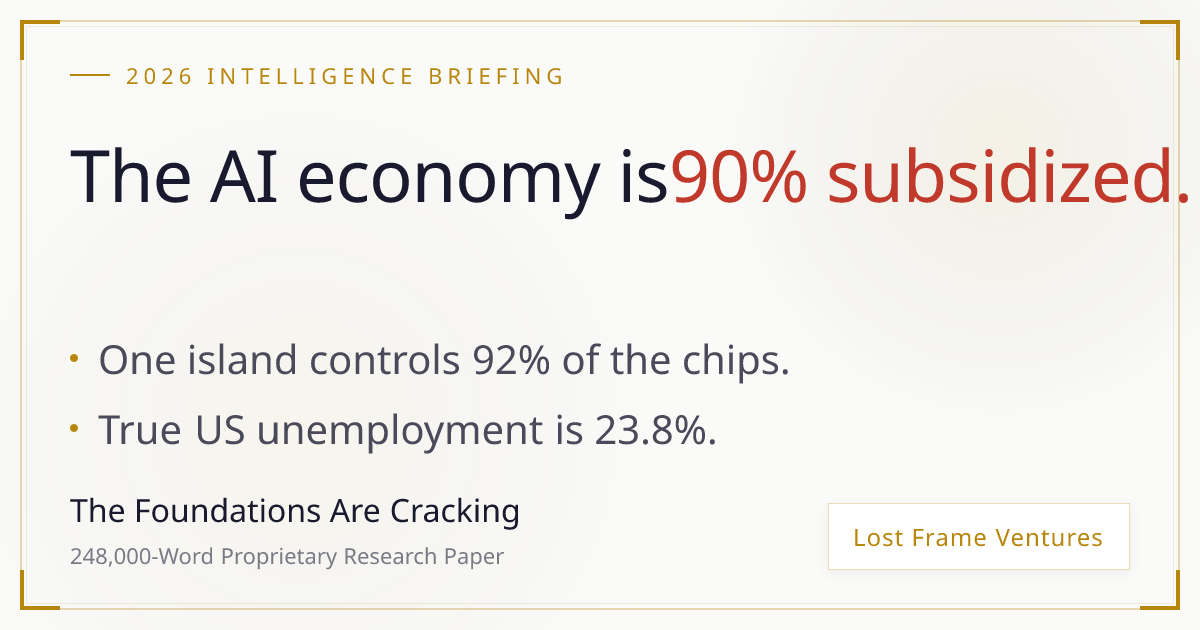
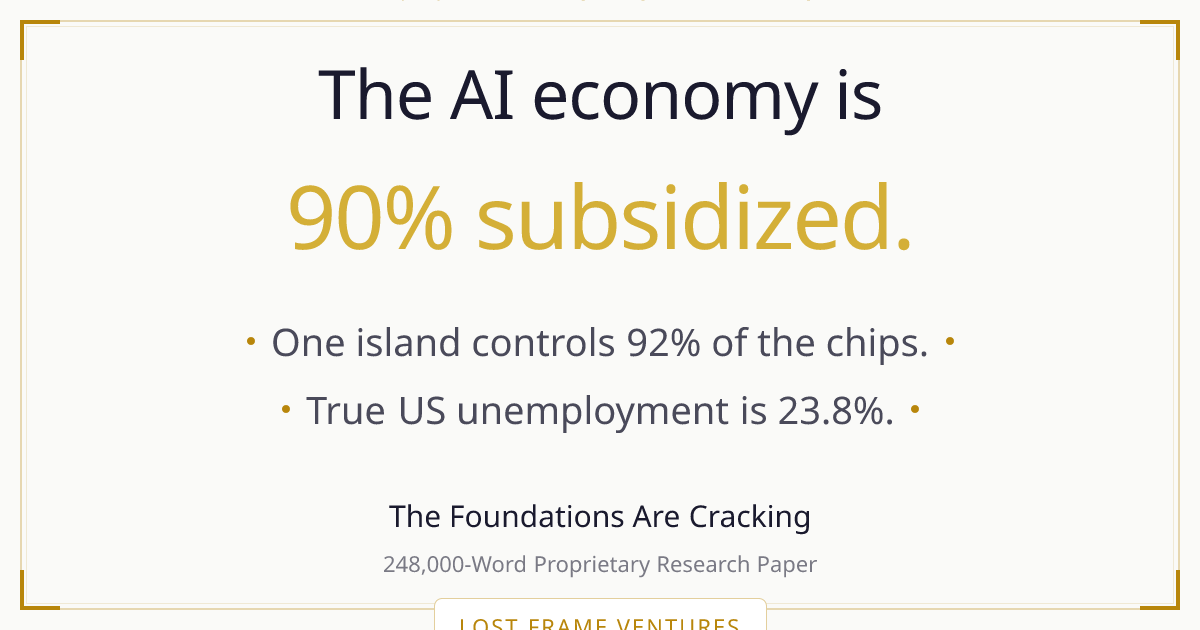
chore: deploy website and sync report updates

diff --git a/report/src/app/opengraph-image.tsx b/report/src/app/opengraph-image.tsx
@@ -15,72 +15,77 @@ export default async function Image() {
           width: "100%",
           height: "100%",
           backgroundColor: "#fafaf8",
-          padding: "60px 70px",
+          padding: "40px",
           color: "#1a1a2e",
           fontFamily: "sans-serif",
-          justifyContent: "space-between",
+          justifyContent: "center",
+          alignItems: "center",
           position: "relative",
-          overflow: "hidden",
         }}
       >
         {/* Inner Gold Frame */}
-        <div style={{ position: "absolute", top: 20, left: 20, right: 20, bottom: 20, border: "2px solid rgba(184,134,11,0.3)" }} />
-        <div style={{ position: "absolute", top: 26, left: 26, right: 26, bottom: 26, border: "1px solid rgba(184,134,11,0.15)" }} />
+        <div style={{ display: "flex", position: "absolute", top: 20, left: 20, right: 20, bottom: 20, border: "2px solid rgba(184,134,11,0.3)" }} />
+        <div style={{ display: "flex", position: "absolute", top: 26, left: 26, right: 26, bottom: 26, border: "1px solid rgba(184,134,11,0.15)" }} />
         
         {/* Corner Accents */}
-        <div style={{ position: "absolute", top: 20, left: 20, width: 40, height: 40, borderTop: "4px solid #b8860b", borderLeft: "4px solid #b8860b" }} />
-        <div style={{ position: "absolute", top: 20, right: 20, width: 40, height: 40, borderTop: "4px solid #b8860b", borderRight: "4px solid #b8860b" }} />
-        <div style={{ position: "absolute", bottom: 20, left: 20, width: 40, height: 40, borderBottom: "4px solid #b8860b", borderLeft: "4px solid #b8860b" }} />
-        <div style={{ position: "absolute", bottom: 20, right: 20, width: 40, height: 40, borderBottom: "4px solid #b8860b", borderRight: "4px solid #b8860b" }} />
+        <div style={{ display: "flex", position: "absolute", top: 20, left: 20, width: 40, height: 40, borderTop: "4px solid #b8860b", borderLeft: "4px solid #b8860b" }} />
+        <div style={{ display: "flex", position: "absolute", top: 20, right: 20, width: 40, height: 40, borderTop: "4px solid #b8860b", borderRight: "4px solid #b8860b" }} />
+        <div style={{ display: "flex", position: "absolute", bottom: 20, left: 20, width: 40, height: 40, borderBottom: "4px solid #b8860b", borderLeft: "4px solid #b8860b" }} />
+        <div style={{ display: "flex", position: "absolute", bottom: 20, right: 20, width: 40, height: 40, borderBottom: "4px solid #b8860b", borderRight: "4px solid #b8860b" }} />
 
-        {/* Subtle grid pattern */}
-        <div style={{ position: "absolute", top: 0, left: 0, right: 0, bottom: 0, opacity: 0.15, backgroundImage: "radial-gradient(circle at 2px 2px, #b8860b 1px, transparent 0)", backgroundSize: "32px 32px" }} />
+        {/* Main Content Safe Zone - Middle 600px */}
+        <div style={{ display: "flex", flexDirection: "column", alignItems: "center", justifyContent: "center", zIndex: 10, textAlign: "center", width: "800px" }}>
+          
+          {/* Top Eyebrow */}
+          <div style={{ display: "flex", alignItems: "center", justifyContent: "center", marginBottom: "40px" }}>
+            <div style={{ display: "flex", width: "40px", height: "2px", backgroundColor: "#b8860b", marginRight: "16px" }} />
+            <div style={{ display: "flex", fontSize: 22, color: "#b8860b", letterSpacing: "5px", fontWeight: 700, textTransform: "uppercase" }}>
+              2026 INTELLIGENCE BRIEFING
+            </div>
+            <div style={{ display: "flex", width: "40px", height: "2px", backgroundColor: "#b8860b", marginLeft: "16px" }} />
+          </div>
 
-        {/* Background Orbs */}
-        <div style={{ position: "absolute", top: -150, right: -100, width: 600, height: 600, background: "radial-gradient(circle, rgba(184,134,11,0.08) 0%, transparent 70%)", borderRadius: "50%" }} />
-        <div style={{ position: "absolute", bottom: -200, left: -100, width: 800, height: 800, background: "radial-gradient(circle, rgba(184,134,11,0.05) 0%, transparent 70%)", borderRadius: "50%" }} />
-
-        {/* Top Eyebrow */}
-        <div style={{ display: "flex", alignItems: "center", gap: "16px", zIndex: 10 }}>
-          <div style={{ width: "40px", height: "2px", backgroundColor: "#b8860b" }} />
-          <span style={{ fontSize: 22, color: "#b8860b", letterSpacing: "5px", fontWeight: 600, textTransform: "uppercase" }}>
-            2026 INTELLIGENCE BRIEFING
-          </span>
-        </div>
-
-        {/* Main Content */}
-        <div style={{ display: "flex", flexDirection: "column", gap: "24px", zIndex: 10, marginTop: "10px" }}>
-          <div style={{ display: "flex", flexDirection: "column", gap: "12px" }}>
-            <h1 style={{ fontSize: 72, fontWeight: 800, lineHeight: 1.1, margin: 0, color: "#1a1a2e", letterSpacing: "-1px" }}>
-              The AI economy is <span style={{ color: "#c0392b" }}>90% subsidized.</span>
-            </h1>
+          <div style={{ display: "flex", flexDirection: "column", alignItems: "center", justifyContent: "center", marginBottom: "40px" }}>
+            <div style={{ display: "flex", fontSize: 68, fontWeight: 800, color: "#1a1a2e", letterSpacing: "-1px", marginBottom: "16px" }}>
+              The AI economy is
+            </div>
+            <div style={{ display: "flex", color: "#d4af37", fontSize: 88, fontWeight: 900, letterSpacing: "-2px" }}>
+              90% subsidized.
+            </div>
           </div>
           
-          <div style={{ display: "flex", flexDirection: "column", gap: "16px", marginTop: "15px" }}>
-            <div style={{ display: "flex", alignItems: "center", gap: "20px" }}>
-              <div style={{ width: "8px", height: "8px", borderRadius: "50%", backgroundColor: "#b8860b" }} />
-              <h2 style={{ fontSize: 40, fontWeight: 500, margin: 0, color: "#4a4a5a" }}>
+          <div style={{ display: "flex", flexDirection: "column", alignItems: "center", justifyContent: "center" }}>
+            <div style={{ display: "flex", alignItems: "center", justifyContent: "center", marginBottom: "16px" }}>
+              <div style={{ display: "flex", width: "8px", height: "8px", borderRadius: "50%", backgroundColor: "#b8860b", marginRight: "16px" }} />
+              <div style={{ display: "flex", fontSize: 38, fontWeight: 500, color: "#4a4a5a" }}>
                 One island controls 92% of the chips.
-              </h2>
+              </div>
+              <div style={{ display: "flex", width: "8px", height: "8px", borderRadius: "50%", backgroundColor: "#b8860b", marginLeft: "16px" }} />
             </div>
-            <div style={{ display: "flex", alignItems: "center", gap: "20px" }}>
-              <div style={{ width: "8px", height: "8px", borderRadius: "50%", backgroundColor: "#b8860b" }} />
-              <h2 style={{ fontSize: 40, fontWeight: 500, margin: 0, color: "#4a4a5a" }}>
+            <div style={{ display: "flex", alignItems: "center", justifyContent: "center" }}>
+              <div style={{ display: "flex", width: "8px", height: "8px", borderRadius: "50%", backgroundColor: "#b8860b", marginRight: "16px" }} />
+              <div style={{ display: "flex", fontSize: 38, fontWeight: 500, color: "#4a4a5a" }}>
                 True US unemployment is 23.8%.
-              </h2>
+              </div>
+              <div style={{ display: "flex", width: "8px", height: "8px", borderRadius: "50%", backgroundColor: "#b8860b", marginLeft: "16px" }} />
             </div>
           </div>
-        </div>
 
-        {/* Bottom Bar */}
-        <div style={{ display: "flex", justifyContent: "space-between", alignItems: "flex-end", zIndex: 10 }}>
-          <div style={{ display: "flex", flexDirection: "column", gap: "8px" }}>
-            <span style={{ fontSize: 32, fontWeight: 700, color: "#1a1a2e" }}>The Foundations Are Cracking</span>
-            <span style={{ fontSize: 22, color: "#7a7a85" }}>248,000-Word Proprietary Research Paper</span>
+          {/* Bottom Branding */}
+          <div style={{ display: "flex", flexDirection: "column", alignItems: "center", justifyContent: "center", marginTop: "60px" }}>
+            <div style={{ display: "flex", fontSize: 30, fontWeight: 700, color: "#1a1a2e", marginBottom: "12px" }}>
+              The Foundations Are Cracking
+            </div>
+            <div style={{ display: "flex", fontSize: 22, color: "#7a7a85", marginBottom: "20px" }}>
+              248,000-Word Proprietary Research Paper
+            </div>
+            <div style={{ display: "flex", padding: "12px 24px", border: "1px solid rgba(184,134,11,0.4)", backgroundColor: "#fff", borderRadius: "8px" }}>
+              <div style={{ display: "flex", fontSize: 22, color: "#b8860b", fontWeight: 700, letterSpacing: "2px", textTransform: "uppercase" }}>
+                LOST FRAME VENTURES
+              </div>
+            </div>
           </div>
-          <div style={{ display: "flex", alignItems: "center", gap: "12px", backgroundColor: "#fff", padding: "16px 24px", border: "1px solid rgba(184,134,11,0.3)", boxShadow: "0 4px 12px rgba(0,0,0,0.05)" }}>
-            <span style={{ fontSize: 24, color: "#b8860b", fontWeight: 700, letterSpacing: "1px" }}>Lost Frame Ventures</span>
-          </div>
+
         </div>
       </div>
     ),

diff --git a/src/app/research/opengraph-image.tsx b/src/app/research/opengraph-image.tsx
@@ -15,72 +15,77 @@ export default async function Image() {
           width: "100%",
           height: "100%",
           backgroundColor: "#fafaf8",
-          padding: "60px 70px",
+          padding: "40px",
           color: "#1a1a2e",
           fontFamily: "sans-serif",
-          justifyContent: "space-between",
+          justifyContent: "center",
+          alignItems: "center",
           position: "relative",
-          overflow: "hidden",
         }}
       >
         {/* Inner Gold Frame */}
-        <div style={{ position: "absolute", top: 20, left: 20, right: 20, bottom: 20, border: "2px solid rgba(184,134,11,0.3)" }} />
-        <div style={{ position: "absolute", top: 26, left: 26, right: 26, bottom: 26, border: "1px solid rgba(184,134,11,0.15)" }} />
+        <div style={{ display: "flex", position: "absolute", top: 20, left: 20, right: 20, bottom: 20, border: "2px solid rgba(184,134,11,0.3)" }} />
+        <div style={{ display: "flex", position: "absolute", top: 26, left: 26, right: 26, bottom: 26, border: "1px solid rgba(184,134,11,0.15)" }} />
         
         {/* Corner Accents */}
-        <div style={{ position: "absolute", top: 20, left: 20, width: 40, height: 40, borderTop: "4px solid #b8860b", borderLeft: "4px solid #b8860b" }} />
-        <div style={{ position: "absolute", top: 20, right: 20, width: 40, height: 40, borderTop: "4px solid #b8860b", borderRight: "4px solid #b8860b" }} />
-        <div style={{ position: "absolute", bottom: 20, left: 20, width: 40, height: 40, borderBottom: "4px solid #b8860b", borderLeft: "4px solid #b8860b" }} />
-        <div style={{ position: "absolute", bottom: 20, right: 20, width: 40, height: 40, borderBottom: "4px solid #b8860b", borderRight: "4px solid #b8860b" }} />
+        <div style={{ display: "flex", position: "absolute", top: 20, left: 20, width: 40, height: 40, borderTop: "4px solid #b8860b", borderLeft: "4px solid #b8860b" }} />
+        <div style={{ display: "flex", position: "absolute", top: 20, right: 20, width: 40, height: 40, borderTop: "4px solid #b8860b", borderRight: "4px solid #b8860b" }} />
+        <div style={{ display: "flex", position: "absolute", bottom: 20, left: 20, width: 40, height: 40, borderBottom: "4px solid #b8860b", borderLeft: "4px solid #b8860b" }} />
+        <div style={{ display: "flex", position: "absolute", bottom: 20, right: 20, width: 40, height: 40, borderBottom: "4px solid #b8860b", borderRight: "4px solid #b8860b" }} />
 
-        {/* Subtle grid pattern */}
-        <div style={{ position: "absolute", top: 0, left: 0, right: 0, bottom: 0, opacity: 0.15, backgroundImage: "radial-gradient(circle at 2px 2px, #b8860b 1px, transparent 0)", backgroundSize: "32px 32px" }} />
+        {/* Main Content Safe Zone - Middle 600px */}
+        <div style={{ display: "flex", flexDirection: "column", alignItems: "center", justifyContent: "center", zIndex: 10, textAlign: "center", width: "800px" }}>
+          
+          {/* Top Eyebrow */}
+          <div style={{ display: "flex", alignItems: "center", justifyContent: "center", marginBottom: "40px" }}>
+            <div style={{ display: "flex", width: "40px", height: "2px", backgroundColor: "#b8860b", marginRight: "16px" }} />
+            <div style={{ display: "flex", fontSize: 22, color: "#b8860b", letterSpacing: "5px", fontWeight: 700, textTransform: "uppercase" }}>
+              2026 INTELLIGENCE BRIEFING
+            </div>
+            <div style={{ display: "flex", width: "40px", height: "2px", backgroundColor: "#b8860b", marginLeft: "16px" }} />
+          </div>
 
-        {/* Background Orbs */}
-        <div style={{ position: "absolute", top: -150, right: -100, width: 600, height: 600, background: "radial-gradient(circle, rgba(184,134,11,0.08) 0%, transparent 70%)", borderRadius: "50%" }} />
-        <div style={{ position: "absolute", bottom: -200, left: -100, width: 800, height: 800, background: "radial-gradient(circle, rgba(184,134,11,0.05) 0%, transparent 70%)", borderRadius: "50%" }} />
-
-        {/* Top Eyebrow */}
-        <div style={{ display: "flex", alignItems: "center", gap: "16px", zIndex: 10 }}>
-          <div style={{ width: "40px", height: "2px", backgroundColor: "#b8860b" }} />
-          <span style={{ fontSize: 22, color: "#b8860b", letterSpacing: "5px", fontWeight: 600, textTransform: "uppercase" }}>
-            2026 INTELLIGENCE BRIEFING
-          </span>
-        </div>
-
-        {/* Main Content */}
-        <div style={{ display: "flex", flexDirection: "column", gap: "24px", zIndex: 10, marginTop: "10px" }}>
-          <div style={{ display: "flex", flexDirection: "column", gap: "12px" }}>
-            <h1 style={{ fontSize: 72, fontWeight: 800, lineHeight: 1.1, margin: 0, color: "#1a1a2e", letterSpacing: "-1px" }}>
-              The AI economy is <span style={{ color: "#c0392b" }}>90% subsidized.</span>
-            </h1>
+          <div style={{ display: "flex", flexDirection: "column", alignItems: "center", justifyContent: "center", marginBottom: "40px" }}>
+            <div style={{ display: "flex", fontSize: 68, fontWeight: 800, color: "#1a1a2e", letterSpacing: "-1px", marginBottom: "16px" }}>
+              The AI economy is
+            </div>
+            <div style={{ display: "flex", color: "#d4af37", fontSize: 88, fontWeight: 900, letterSpacing: "-2px" }}>
+              90% subsidized.
+            </div>
           </div>
           
-          <div style={{ display: "flex", flexDirection: "column", gap: "16px", marginTop: "15px" }}>
-            <div style={{ display: "flex", alignItems: "center", gap: "20px" }}>
-              <div style={{ width: "8px", height: "8px", borderRadius: "50%", backgroundColor: "#b8860b" }} />
-              <h2 style={{ fontSize: 40, fontWeight: 500, margin: 0, color: "#4a4a5a" }}>
+          <div style={{ display: "flex", flexDirection: "column", alignItems: "center", justifyContent: "center" }}>
+            <div style={{ display: "flex", alignItems: "center", justifyContent: "center", marginBottom: "16px" }}>
+              <div style={{ display: "flex", width: "8px", height: "8px", borderRadius: "50%", backgroundColor: "#b8860b", marginRight: "16px" }} />
+              <div style={{ display: "flex", fontSize: 38, fontWeight: 500, color: "#4a4a5a" }}>
                 One island controls 92% of the chips.
-              </h2>
+              </div>
+              <div style={{ display: "flex", width: "8px", height: "8px", borderRadius: "50%", backgroundColor: "#b8860b", marginLeft: "16px" }} />
             </div>
-            <div style={{ display: "flex", alignItems: "center", gap: "20px" }}>
-              <div style={{ width: "8px", height: "8px", borderRadius: "50%", backgroundColor: "#b8860b" }} />
-              <h2 style={{ fontSize: 40, fontWeight: 500, margin: 0, color: "#4a4a5a" }}>
+            <div style={{ display: "flex", alignItems: "center", justifyContent: "center" }}>
+              <div style={{ display: "flex", width: "8px", height: "8px", borderRadius: "50%", backgroundColor: "#b8860b", marginRight: "16px" }} />
+              <div style={{ display: "flex", fontSize: 38, fontWeight: 500, color: "#4a4a5a" }}>
                 True US unemployment is 23.8%.
-              </h2>
+              </div>
+              <div style={{ display: "flex", width: "8px", height: "8px", borderRadius: "50%", backgroundColor: "#b8860b", marginLeft: "16px" }} />
             </div>
           </div>
-        </div>
 
-        {/* Bottom Bar */}
-        <div style={{ display: "flex", justifyContent: "space-between", alignItems: "flex-end", zIndex: 10 }}>
-          <div style={{ display: "flex", flexDirection: "column", gap: "8px" }}>
-            <span style={{ fontSize: 32, fontWeight: 700, color: "#1a1a2e" }}>The Foundations Are Cracking</span>
-            <span style={{ fontSize: 22, color: "#7a7a85" }}>248,000-Word Proprietary Research Paper</span>
+          {/* Bottom Branding */}
+          <div style={{ display: "flex", flexDirection: "column", alignItems: "center", justifyContent: "center", marginTop: "60px" }}>
+            <div style={{ display: "flex", fontSize: 30, fontWeight: 700, color: "#1a1a2e", marginBottom: "12px" }}>
+              The Foundations Are Cracking
+            </div>
+            <div style={{ display: "flex", fontSize: 22, color: "#7a7a85", marginBottom: "20px" }}>
+              248,000-Word Proprietary Research Paper
+            </div>
+            <div style={{ display: "flex", padding: "12px 24px", border: "1px solid rgba(184,134,11,0.4)", backgroundColor: "#fff", borderRadius: "8px" }}>
+              <div style={{ display: "flex", fontSize: 22, color: "#b8860b", fontWeight: 700, letterSpacing: "2px", textTransform: "uppercase" }}>
+                LOST FRAME VENTURES
+              </div>
+            </div>
           </div>
-          <div style={{ display: "flex", alignItems: "center", gap: "12px", backgroundColor: "#fff", padding: "16px 24px", border: "1px solid rgba(184,134,11,0.3)", boxShadow: "0 4px 12px rgba(0,0,0,0.05)" }}>
-            <span style={{ fontSize: 24, color: "#b8860b", fontWeight: 700, letterSpacing: "1px" }}>Lost Frame Ventures</span>
-          </div>
+
         </div>
       </div>
     ),

diff --git a/report/src/components/sections/TableOfContents.tsx b/report/src/components/sections/TableOfContents.tsx
@@ -57,8 +57,10 @@ const sections = [
 
 const collegeGuide = {
   number: "08",
-  href: "/students",
-  title: "The AI Reality Check for College Students",
+  id: "college",
+  title: "Special Report: The AI Reality Check for College Students",
+  subtitle: "Why 90% of degrees are being devalued and what to do about it.",
+  href: "/research/students",
   hook: "Separate add-on guide — your degree is being devalued in real time",
   accent: "#b8860b",
 };

diff --git a/src/components/report/sections/TableOfContents.tsx b/src/components/report/sections/TableOfContents.tsx
@@ -57,8 +57,10 @@ const sections = [
 
 const collegeGuide = {
   number: "08",
-  href: "/students",
-  title: "The AI Reality Check for College Students",
+  id: "college",
+  title: "Special Report: The AI Reality Check for College Students",
+  subtitle: "Why 90% of degrees are being devalued and what to do about it.",
+  href: "/research/students",
   hook: "Separate add-on guide — your degree is being devalued in real time",
   accent: "#b8860b",
 };
